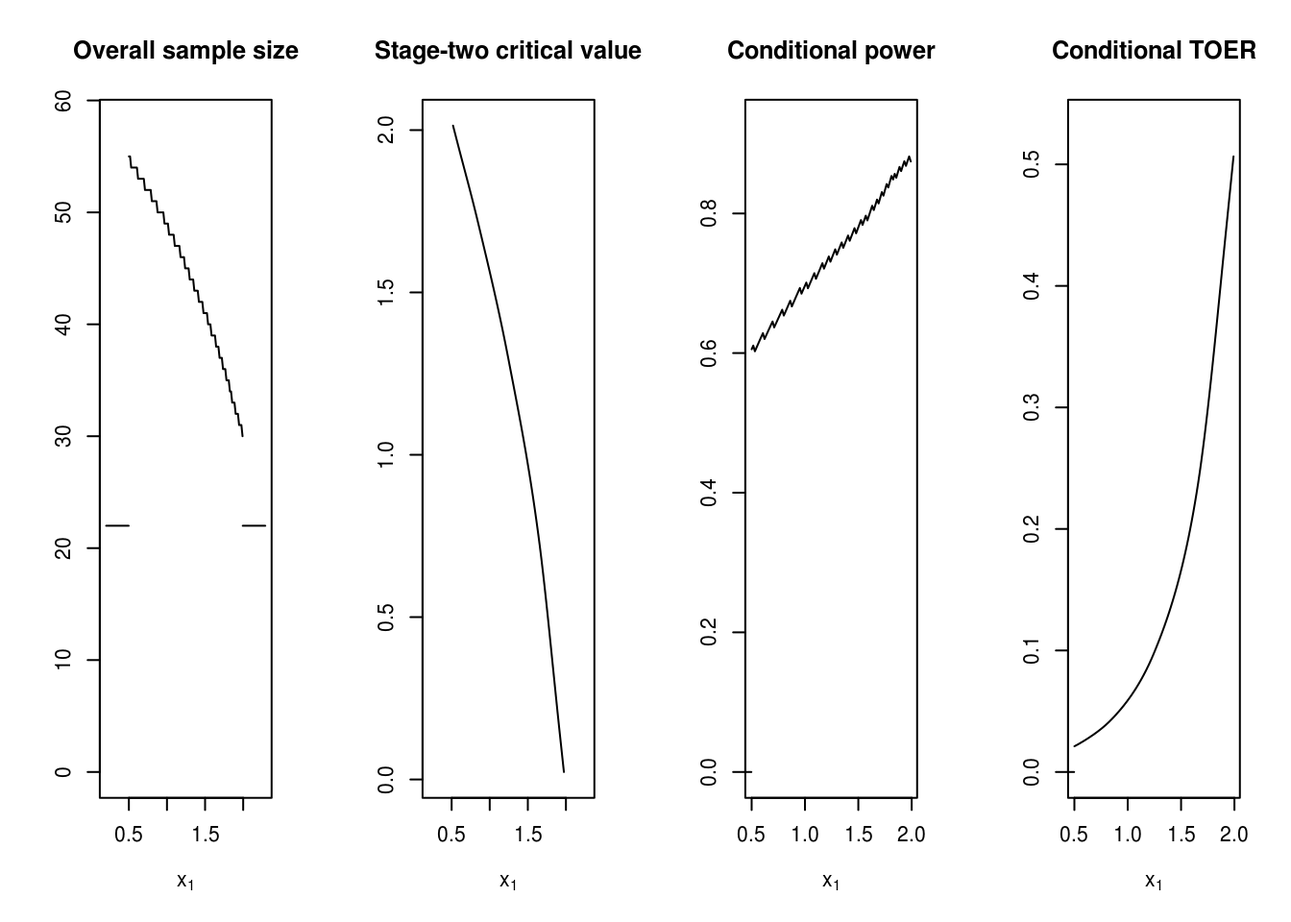
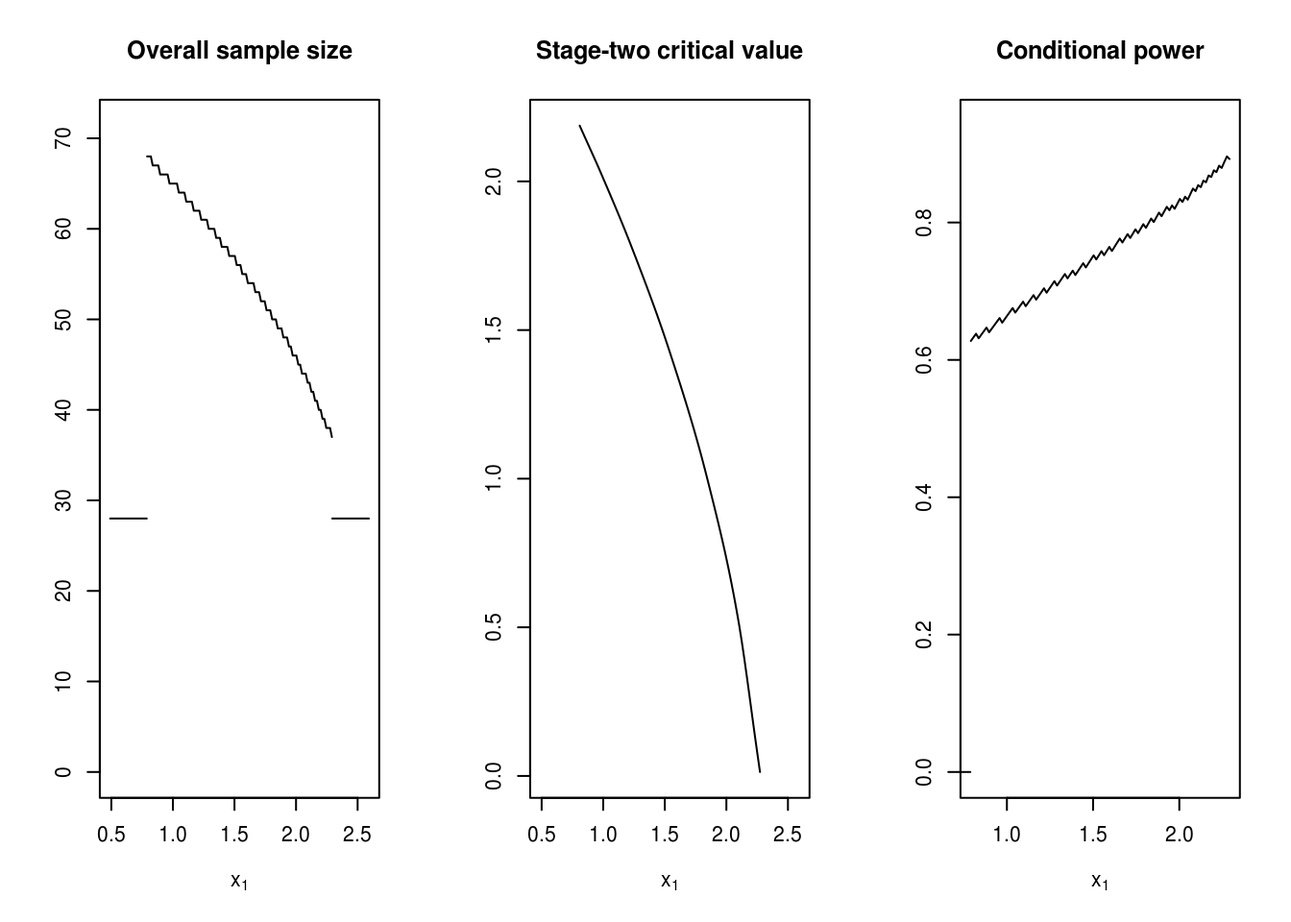
Built site for adoptr: 0.1.0@c99e87e

diff --git a/articles/adoptr.html b/articles/adoptr.html
@@ -5,13 +5,13 @@
 <meta charset="utf-8">
 <meta http-equiv="X-UA-Compatible" content="IE=edge">
 <meta name="viewport" content="width=device-width, initial-scale=1.0">
-<title>Get started with adoptr • adoptr</title>
+<title>Get started with <strong>adoptr</strong> • adoptr</title>
 <!-- jquery --><script src="https://cdnjs.cloudflare.com/ajax/libs/jquery/3.3.1/jquery.min.js" integrity="sha256-FgpCb/KJQlLNfOu91ta32o/NMZxltwRo8QtmkMRdAu8=" crossorigin="anonymous"></script><!-- Bootstrap --><link rel="stylesheet" href="https://cdnjs.cloudflare.com/ajax/libs/twitter-bootstrap/3.3.7/css/bootstrap.min.css" integrity="sha256-916EbMg70RQy9LHiGkXzG8hSg9EdNy97GazNG/aiY1w=" crossorigin="anonymous">
 <script src="https://cdnjs.cloudflare.com/ajax/libs/twitter-bootstrap/3.3.7/js/bootstrap.min.js" integrity="sha256-U5ZEeKfGNOja007MMD3YBI0A3OSZOQbeG6z2f2Y0hu8=" crossorigin="anonymous"></script><!-- Font Awesome icons --><link rel="stylesheet" href="https://cdnjs.cloudflare.com/ajax/libs/font-awesome/4.7.0/css/font-awesome.min.css" integrity="sha256-eZrrJcwDc/3uDhsdt61sL2oOBY362qM3lon1gyExkL0=" crossorigin="anonymous">
 <!-- clipboard.js --><script src="https://cdnjs.cloudflare.com/ajax/libs/clipboard.js/2.0.4/clipboard.min.js" integrity="sha256-FiZwavyI2V6+EXO1U+xzLG3IKldpiTFf3153ea9zikQ=" crossorigin="anonymous"></script><!-- sticky kit --><script src="https://cdnjs.cloudflare.com/ajax/libs/sticky-kit/1.1.3/sticky-kit.min.js" integrity="sha256-c4Rlo1ZozqTPE2RLuvbusY3+SU1pQaJC0TjuhygMipw=" crossorigin="anonymous"></script><!-- pkgdown --><link href="../pkgdown.css" rel="stylesheet">
 <script src="../pkgdown.js"></script><!-- docsearch --><script src="../docsearch.js"></script><link rel="stylesheet" href="https://cdnjs.cloudflare.com/ajax/libs/docsearch.js/2.6.1/docsearch.min.css" integrity="sha256-QOSRU/ra9ActyXkIBbiIB144aDBdtvXBcNc3OTNuX/Q=" crossorigin="anonymous">
 <link href="../docsearch.css" rel="stylesheet">
-<script src="https://cdnjs.cloudflare.com/ajax/libs/mark.js/8.11.1/jquery.mark.min.js" integrity="sha256-4HLtjeVgH0eIB3aZ9mLYF6E8oU5chNdjU6p6rrXpl9U=" crossorigin="anonymous"></script><meta property="og:title" content="Get started with adoptr">
+<script src="https://cdnjs.cloudflare.com/ajax/libs/mark.js/8.11.1/jquery.mark.min.js" integrity="sha256-4HLtjeVgH0eIB3aZ9mLYF6E8oU5chNdjU6p6rrXpl9U=" crossorigin="anonymous"></script><meta property="og:title" content="Get started with &lt;strong&gt;adoptr&lt;/strong&gt;">
 <meta property="og:description" content="">
 <meta property="og:image" content="https://kkmann.github.io/adoptr/logo.png">
 <meta name="twitter:card" content="summary">
@@ -86,7 +86,8 @@
       </header><div class="row">
   <div class="col-md-9 contents">
     <div class="page-header toc-ignore">
-      <h1>Get started with adoptr</h1>
+      <h1>Get started with <strong>adoptr</strong>
+</h1>
             
             <h4 class="date">2019-03-04</h4>
       
@@ -97,88 +98,94 @@
 
     
     
-<div id="the-core-problem" class="section level2">
+<div id="two-stage-designs-for-clinical-trials" class="section level2">
 <h2 class="hasAnchor">
-<a href="#the-core-problem" class="anchor"></a>The core problem</h2>
-<p><code>adoptr</code> addresses the problem of finding optimal two-stage designs for clinical trials. Currently, only (asymptotically) normal test statistics are supported. Both Z-tests for a single arm versus a fixed value or one-sided tests comparing the means of two arms are supported. In all cases known variance is assumed and in the two-arm case homogeneity of variances is required, additionally.</p>
-<p>Consider the simplest case of a two-stage design for a single-arm trial aiming to reject the null hypothesis that <span class="math inline">\(\delta\leq 0\)</span> where <span class="math inline">\(\delta\)</span> is the mean of the population response. Further assume that a power of 80% at <span class="math inline">\(\delta=0.4\)</span> and a type one error rate of 5% on the boundary of the null hypothesis is required (<span class="math inline">\(\delta=0.0\)</span>).</p>
-<p>We can start with a a more or less arbitrary initial design [ToDo: can we start with a single stage design fulfilling the power and type one error rate constraints here?]. <code>adoptr</code> internally represents designs as tuples of <span class="math inline">\((n_1, c_{1f}, c_{1f}, n_2(\cdot), c_2(\cdot))\)</span>. Here, <span class="math inline">\(n_2\)</span> and <span class="math inline">\(c_2\)</span> are the functions returning the stage-two sample size and critical values given the stage-one test statitic <span class="math inline">\(x_1\)</span> (z-score in our case). For any given objective function, the design parameters can be identified via a variational problem. To numerically solve this problem <span class="math inline">\(n_2\)</span> and <span class="math inline">\(c_2\)</span> are integrated using a Gaussian quadrature rule. The order of the rule determines the number of pivot points for both functions. Since, both <span class="math inline">\(n_2\)</span> and <span class="math inline">\(c_2\)</span> are usually fairly smooth on the continuation region, a quadrature rule of order 5 is sufficiently flexible:</p>
-<div class="sourceCode" id="cb1"><pre class="sourceCode r"><code class="sourceCode r"><a class="sourceLine" id="cb1-1" data-line-number="1">order &lt;-<span class="st"> </span>5L</a></code></pre></div>
-<p>The initial design may then be defined as follows:</p>
-<div class="sourceCode" id="cb2"><pre class="sourceCode r"><code class="sourceCode r"><a class="sourceLine" id="cb2-1" data-line-number="1">design &lt;-<span class="st"> </span><span class="kw"><a href="../reference/TwoStageDesign-class.html">TwoStageDesign</a></span>(</a>
-<a class="sourceLine" id="cb2-2" data-line-number="2">    <span class="dt">n1    =</span> <span class="dv">25</span>, </a>
-<a class="sourceLine" id="cb2-3" data-line-number="3">    <span class="dt">c1f   =</span> <span class="dv">0</span>,</a>
-<a class="sourceLine" id="cb2-4" data-line-number="4">    <span class="dt">c1e   =</span> <span class="dv">2</span>,</a>
-<a class="sourceLine" id="cb2-5" data-line-number="5">    <span class="dt">n2    =</span> <span class="fl">40.0</span>, </a>
-<a class="sourceLine" id="cb2-6" data-line-number="6">    <span class="dt">c2    =</span> <span class="fl">1.96</span>,</a>
-<a class="sourceLine" id="cb2-7" data-line-number="7">    <span class="dt">order =</span> order</a>
-<a class="sourceLine" id="cb2-8" data-line-number="8">  )</a></code></pre></div>
-<p>[comment: I don’t like the gq_design function. If we only use GQ, we should implement this as default constructor of the TwoStageDesign class even though the implementation is more generic.] The design can be visualized using the provided <code><a href="https://www.rdocumentation.org/packages/graphics/topics/plot">plot()</a></code> method.</p>
-<div class="sourceCode" id="cb3"><pre class="sourceCode r"><code class="sourceCode r"><a class="sourceLine" id="cb3-1" data-line-number="1"><span class="kw"><a href="https://www.rdocumentation.org/packages/graphics/topics/plot">plot</a></span>(design)</a></code></pre></div>
-<p><img src="adoptr_files/figure-html/plot-design-1.png" width="672"></p>
-<p>In the next step, we define a simple optimization problem for improving this initial design.</p>
+<a href="#two-stage-designs-for-clinical-trials" class="anchor"></a>Two-stage designs for clinical trials</h2>
+<p>In prospectively planned confirmatory clinical trials there has been a long-standing debate about the merits of allowing pre-planned interim analyses to stop or modify an ongoing trial, cf. [REFEENCE BAUER et al 2016]. It is common consensus that such two-stage designs should still maintain strict control of the maximal type one error rate despite the data dependent decision at the interim analyis. Most authors use combination function approaches to combine either the independent p values or test statistics from the respective stages. Doing so with pre-specified weights maintains the type one error rate control [REFERENCE].</p>
+<p>In [our paper], it was argued that such techniques are not necessary, in fact, that they are counter-productive, since the pre-specified weights might be sub-optimal. Intuitively, this can be seen from the fact that the derivation of optimal weights for a two-stage test build on the notion of a hypothetical overall sample size which might never be realized in practice [REFERENCE]. Instead, one may see the problem of defining an optimal two-stage designs as a variational problem to find the optimal configuration <span class="math inline">\(\big(n_1, c_1^e, c_1^f, n_2(\cdot), c_2(\cdot)\big)\)</span> directly for a given objective function and potentially a set of constraints. The relaxation of this mixed-integer problem to the real numbers can then be solved with standard methods from analysis. E.g., one could construct an implicit solution by solving the corresponding Euler-Lagrange equation for given first-stage and then find an optimal first-stage configuration [our paper]. Instead, the <strong>adoptr</strong> package implements a direct numerical solution algorithm by embedding the variation problem via a set of pivot points in the <span class="math inline">\(\mathbb{R}^k\)</span> and solving the corresponding finite-dimensional problem using gradient-free numerical optimization procedures (COBYLA / nloptr).</p>
 </div>
+<div id="example" class="section level1">
+<h1 class="hasAnchor">
+<a href="#example" class="anchor"></a>Example</h1>
+<p>Consider the case of a two-stage design for a single-arm trial aiming to reject the null hypothesis <span class="math inline">\(\mathcal{H}_0: \delta \leq 0\)</span> where <span class="math inline">\(\delta\)</span> is the population-mean response. Further assume that a power of 80% at <span class="math inline">\(\delta=0.4\)</span> and a type-one-error rate of 2.5% on the boundary of the null hypothesis <span class="math inline">\(\delta\leq0.0\)</span> is required.</p>
+<p>In this situation, the one-sided t-test would require a sample size of <span class="math inline">\(51\)</span> individuals. If we were willing to accept the fact that the sample size of a two-stage design is inherently unknown at the planning stage, we could reduce the <em>expected</em> sample size under the alternative by optimizing a two-stage design with respect to this quantity. Since the two-stage design, by definition, has more degrees of freedom than the single-stage design, it must be at least as good in terms of expected sample size as the single-stage design - for which the expected sample size is always 51.</p>
 <div id="define-hypotheses-and-data-generating-mechanism" class="section level2">
 <h2 class="hasAnchor">
 <a href="#define-hypotheses-and-data-generating-mechanism" class="anchor"></a>Define hypotheses and data-generating mechanism</h2>
-<p>First, we define the null and alternative hypotheses as prior distributions over the unknown <span class="math inline">\(\delta\)</span>.</p>
-<div class="sourceCode" id="cb4"><pre class="sourceCode r"><code class="sourceCode r"><a class="sourceLine" id="cb4-1" data-line-number="1">null        &lt;-<span class="st"> </span><span class="kw"><a href="../reference/PointMassPrior-class.html">PointMassPrior</a></span>(.<span class="dv">0</span>, <span class="dv">1</span>)</a>
-<a class="sourceLine" id="cb4-2" data-line-number="2">alternative &lt;-<span class="st"> </span><span class="kw"><a href="../reference/PointMassPrior-class.html">PointMassPrior</a></span>(.<span class="dv">4</span>, <span class="dv">1</span>)</a></code></pre></div>
-<p>Next, we define the data-generating mechanism. Currently, only normally distributed test statistics with known variance are supported. For medium to large sample sizes, the assumption of known variance introduces little error even if the true distribution is, e.g., a t-distribution due to estimation of the unknown variance. Here we simply define a normal-model. The default is a two-arm trial, but for the sake of simplicity, we consider a single-arm trial first.</p>
-<div class="sourceCode" id="cb5"><pre class="sourceCode r"><code class="sourceCode r"><a class="sourceLine" id="cb5-1" data-line-number="1">datadist &lt;-<span class="st"> </span><span class="kw"><a href="../reference/NormalDataDistribution-class.html">Normal</a></span>(<span class="dt">two_armed =</span> <span class="ot">FALSE</span>)</a></code></pre></div>
-<p>Note that when using two-armed designs, all sample sizes are given <em>per-arm</em>!</p>
+<div class="sourceCode" id="cb1"><pre class="sourceCode r"><code class="sourceCode r"><a class="sourceLine" id="cb1-1" data-line-number="1"><span class="kw"><a href="https://www.rdocumentation.org/packages/base/topics/library">library</a></span>(adoptr)</a></code></pre></div>
+<p>First, we define the null and alternative hypotheses as prior distributions over the unknown paramter <span class="math inline">\(\delta\)</span>.</p>
+<div class="sourceCode" id="cb2"><pre class="sourceCode r"><code class="sourceCode r"><a class="sourceLine" id="cb2-1" data-line-number="1">H_<span class="dv">0</span> &lt;-<span class="st"> </span><span class="kw"><a href="../reference/PointMassPrior-class.html">PointMassPrior</a></span>(.<span class="dv">0</span>, <span class="dv">1</span>)</a>
+<a class="sourceLine" id="cb2-2" data-line-number="2">H_<span class="dv">1</span> &lt;-<span class="st"> </span><span class="kw"><a href="../reference/PointMassPrior-class.html">PointMassPrior</a></span>(.<span class="dv">4</span>, <span class="dv">1</span>)</a></code></pre></div>
+<p>Next, we define the data-generating mechanism (data distribution). Currently, only normally distributed test statistics with known variance are supported.</p>
+<div class="sourceCode" id="cb3"><pre class="sourceCode r"><code class="sourceCode r"><a class="sourceLine" id="cb3-1" data-line-number="1">datadist &lt;-<span class="st"> </span><span class="kw"><a href="../reference/NormalDataDistribution-class.html">Normal</a></span>(<span class="dt">two_armed =</span> <span class="ot">FALSE</span>)</a></code></pre></div>
 </div>
-<div id="define-scores" class="section level2">
+<div id="specify-optimization-problem" class="section level2">
 <h2 class="hasAnchor">
-<a href="#define-scores" class="anchor"></a>Define scores</h2>
-<p>To define the optimization problem we specify a few quantities of interest. The overall objective could, e.g., be to minimize the expected sample size of the design under the alternative hypothesis subject to the given power and type one error rate constraints. Let to this end</p>
-<div class="sourceCode" id="cb6"><pre class="sourceCode r"><code class="sourceCode r"><a class="sourceLine" id="cb6-1" data-line-number="1">ess  &lt;-<span class="st"> </span><span class="kw"><a href="../reference/working-with-scores.html">expected</a></span>(<span class="kw"><a href="../reference/ConditionalSampleSize-class.html">ConditionalSampleSize</a></span>(datadist, alternative))</a></code></pre></div>
-<p>be the expected sample size under the alternative. Note that the <code>ess</code> object is created by integrating a simple, conditional score - the conditional sample size given <span class="math inline">\(X_1 = x_1\)</span> is just <span class="math inline">\(n_1 + n_2(x_1)\)</span> and pre-implemented.</p>
-<p>Similarly, we can define the power and type one error rate by integrating conditional power with respect to the alternative or null hypothesis respectively:</p>
-<div class="sourceCode" id="cb7"><pre class="sourceCode r"><code class="sourceCode r"><a class="sourceLine" id="cb7-1" data-line-number="1">power  &lt;-<span class="st"> </span><span class="kw"><a href="../reference/working-with-scores.html">expected</a></span>(<span class="kw"><a href="../reference/ConditionalPower-class.html">ConditionalPower</a></span>(datadist, alternative))</a>
-<a class="sourceLine" id="cb7-2" data-line-number="2">toer   &lt;-<span class="st"> </span><span class="kw"><a href="../reference/working-with-scores.html">expected</a></span>(<span class="kw"><a href="../reference/ConditionalPower-class.html">ConditionalPower</a></span>(datadist, null))</a></code></pre></div>
-</div>
-<div id="optimize-the-design" class="section level2">
-<h2 class="hasAnchor">
-<a href="#optimize-the-design" class="anchor"></a>Optimize the design</h2>
-<p>We can now proceed with defining and solving the optimization problem. Before doing so, we need to define box-constraints by providing a lower and upper boundary design.</p>
-<div class="sourceCode" id="cb8"><pre class="sourceCode r"><code class="sourceCode r"><a class="sourceLine" id="cb8-1" data-line-number="1">lb_design &lt;-<span class="st"> </span><span class="kw"><a href="https://www.rdocumentation.org/packages/stats/topics/update">update</a></span>(</a>
-<a class="sourceLine" id="cb8-2" data-line-number="2">    design, <span class="kw"><a href="https://www.rdocumentation.org/packages/base/topics/c">c</a></span>(<span class="dv">10</span>, <span class="dv">-1</span>, <span class="dv">1</span>, <span class="kw"><a href="https://www.rdocumentation.org/packages/base/topics/numeric">numeric</a></span>(order) <span class="op">+</span><span class="st"> </span><span class="dv">2</span>, <span class="kw"><a href="https://www.rdocumentation.org/packages/base/topics/numeric">numeric</a></span>(order) <span class="op">-</span><span class="st"> </span><span class="dv">5</span>)</a>
-<a class="sourceLine" id="cb8-3" data-line-number="3">)</a>
-<a class="sourceLine" id="cb8-4" data-line-number="4">ub_design &lt;-<span class="st"> </span><span class="kw"><a href="https://www.rdocumentation.org/packages/stats/topics/update">update</a></span>(</a>
-<a class="sourceLine" id="cb8-5" data-line-number="5">  design, <span class="kw"><a href="https://www.rdocumentation.org/packages/base/topics/c">c</a></span>(<span class="dv">50</span>, <span class="dv">1</span>, <span class="dv">4</span>, <span class="kw"><a href="https://www.rdocumentation.org/packages/base/topics/numeric">numeric</a></span>(order) <span class="op">+</span><span class="st"> </span><span class="dv">50</span>, <span class="kw"><a href="https://www.rdocumentation.org/packages/base/topics/numeric">numeric</a></span>(order) <span class="op">+</span><span class="st"> </span><span class="dv">5</span>)</a>
-<a class="sourceLine" id="cb8-6" data-line-number="6">)</a></code></pre></div>
-<div class="sourceCode" id="cb9"><pre class="sourceCode r"><code class="sourceCode r"><a class="sourceLine" id="cb9-1" data-line-number="1">optimal_result &lt;-<span class="st"> </span><span class="kw"><a href="../reference/minimize.html">minimize</a></span>(</a>
+<a href="#specify-optimization-problem" class="anchor"></a>Specify optimization problem</h2>
+<p>We begin by defining the expected sample size under the alternative hypothesis:</p>
+<div class="sourceCode" id="cb4"><pre class="sourceCode r"><code class="sourceCode r"><a class="sourceLine" id="cb4-1" data-line-number="1">ess &lt;-<span class="st"> </span><span class="kw"><a href="../reference/working-with-scores.html">expected</a></span>(<span class="kw"><a href="../reference/ConditionalSampleSize-class.html">ConditionalSampleSize</a></span>(datadist, H_<span class="dv">1</span>))</a></code></pre></div>
+<p>Similarly, we can define the power and the type-one-error rate by integrating conditional power with respect to the alternative or null hypothesis respectively:</p>
+<div class="sourceCode" id="cb5"><pre class="sourceCode r"><code class="sourceCode r"><a class="sourceLine" id="cb5-1" data-line-number="1">power  &lt;-<span class="st"> </span><span class="kw"><a href="../reference/working-with-scores.html">expected</a></span>(<span class="kw"><a href="../reference/ConditionalPower-class.html">ConditionalPower</a></span>(datadist, H_<span class="dv">1</span>))</a>
+<a class="sourceLine" id="cb5-2" data-line-number="2">toer   &lt;-<span class="st"> </span><span class="kw"><a href="../reference/working-with-scores.html">expected</a></span>(<span class="kw"><a href="../reference/ConditionalPower-class.html">ConditionalPower</a></span>(datadist, H_<span class="dv">0</span>))</a></code></pre></div>
+<p>To complete the problem specification, we only need to provide an initial design and an integration order for the Gaussian quadrature rule to be used for the numerical integration of the variational objective between <span class="math inline">\(c_1^f\)</span> and <span class="math inline">\(c_1^e\)</span>. For the initial design, we simply set the stage-one sample size to half the sample size of the t-test and we use a rule of order 7:</p>
+<div class="sourceCode" id="cb6"><pre class="sourceCode r"><code class="sourceCode r"><a class="sourceLine" id="cb6-1" data-line-number="1">initial_design &lt;-<span class="st"> </span><span class="kw"><a href="../reference/TwoStageDesign-class.html">TwoStageDesign</a></span>(</a>
+<a class="sourceLine" id="cb6-2" data-line-number="2">    <span class="dt">n1    =</span> <span class="dv">25</span>, </a>
+<a class="sourceLine" id="cb6-3" data-line-number="3">    <span class="dt">c1f   =</span> <span class="dv">0</span>,</a>
+<a class="sourceLine" id="cb6-4" data-line-number="4">    <span class="dt">c1e   =</span> <span class="fl">2.5</span>,</a>
+<a class="sourceLine" id="cb6-5" data-line-number="5">    <span class="dt">n2    =</span> <span class="dv">50</span>, </a>
+<a class="sourceLine" id="cb6-6" data-line-number="6">    <span class="dt">c2    =</span> <span class="fl">1.96</span>,</a>
+<a class="sourceLine" id="cb6-7" data-line-number="7">    <span class="dt">order =</span> 7L</a>
+<a class="sourceLine" id="cb6-8" data-line-number="8">)</a></code></pre></div>
+<p>The decision boundaries are heuristically picked in concordance with those of the single-stage design. We can then check whether the initial design fulfills the constraints on the operating characteristics:</p>
+<div class="sourceCode" id="cb7"><pre class="sourceCode r"><code class="sourceCode r"><a class="sourceLine" id="cb7-1" data-line-number="1"><span class="kw"><a href="../reference/working-with-scores.html">evaluate</a></span>(power, initial_design)</a>
+<a class="sourceLine" id="cb7-2" data-line-number="2"><span class="co">#&gt; [1] 0.8484691</span></a></code></pre></div>
+<div class="sourceCode" id="cb8"><pre class="sourceCode r"><code class="sourceCode r"><a class="sourceLine" id="cb8-1" data-line-number="1"><span class="kw"><a href="../reference/working-with-scores.html">evaluate</a></span>(toer, initial_design)</a>
+<a class="sourceLine" id="cb8-2" data-line-number="2"><span class="co">#&gt; [1] 0.01855338</span></a></code></pre></div>
+<p>We can now proceed with defining and solving the optimization problem:</p>
+<div class="sourceCode" id="cb9"><pre class="sourceCode r"><code class="sourceCode r"><a class="sourceLine" id="cb9-1" data-line-number="1">opt_res &lt;-<span class="st"> </span><span class="kw"><a href="../reference/minimize.html">minimize</a></span>(</a>
 <a class="sourceLine" id="cb9-2" data-line-number="2">  </a>
 <a class="sourceLine" id="cb9-3" data-line-number="3">  ess,</a>
-<a class="sourceLine" id="cb9-4" data-line-number="4">  <span class="kw"><a href="../reference/ConstraintsCollection-class.html">subject_to</a></span>(</a>
-<a class="sourceLine" id="cb9-5" data-line-number="5">    power <span class="op">&gt;=</span><span class="st"> </span><span class="fl">0.8</span>,</a>
-<a class="sourceLine" id="cb9-6" data-line-number="6">    toer  <span class="op">&lt;=</span><span class="st"> </span><span class="fl">.05</span></a>
-<a class="sourceLine" id="cb9-7" data-line-number="7">  ),</a>
-<a class="sourceLine" id="cb9-8" data-line-number="8">  </a>
-<a class="sourceLine" id="cb9-9" data-line-number="9">  <span class="dt">initial_design        =</span> design,</a>
-<a class="sourceLine" id="cb9-10" data-line-number="10">  <span class="dt">lower_boundary_design =</span> lb_design,</a>
-<a class="sourceLine" id="cb9-11" data-line-number="11">  <span class="dt">upper_boundary_design =</span> ub_design</a>
-<a class="sourceLine" id="cb9-12" data-line-number="12">  </a>
-<a class="sourceLine" id="cb9-13" data-line-number="13">)</a>
-<a class="sourceLine" id="cb9-14" data-line-number="14"></a>
-<a class="sourceLine" id="cb9-15" data-line-number="15">optimal_design &lt;-<span class="st"> </span>optimal_result<span class="op">$</span>design</a></code></pre></div>
-<p>Here, we override the internal defaults to allow a more precise solution. Note that since COBYLA is a generic derivative-free optimizer, the process may take quite a while. In general it is important to check convergence since partial solutions might be non-smooth or otherwise non-intuitive. If the algorithm would not have converged, the function <code>minimize</code> would have thrown a warning message. All the output that was created by <code>nloptr</code> can be regarded by</p>
-<div class="sourceCode" id="cb10"><pre class="sourceCode r"><code class="sourceCode r"><a class="sourceLine" id="cb10-1" data-line-number="1">optimal_result<span class="op">$</span>details<span class="op">$</span>nloptr_return</a></code></pre></div>
-<p>The resulting optimized design may again be plotted together with its conditional power.</p>
+<a class="sourceLine" id="cb9-4" data-line-number="4">  </a>
+<a class="sourceLine" id="cb9-5" data-line-number="5">  <span class="kw"><a href="../reference/ConstraintsCollection-class.html">subject_to</a></span>(</a>
+<a class="sourceLine" id="cb9-6" data-line-number="6">    power <span class="op">&gt;=</span><span class="st"> </span><span class="fl">0.8</span>,</a>
+<a class="sourceLine" id="cb9-7" data-line-number="7">    toer  <span class="op">&lt;=</span><span class="st"> </span><span class="fl">.025</span></a>
+<a class="sourceLine" id="cb9-8" data-line-number="8">  ),</a>
+<a class="sourceLine" id="cb9-9" data-line-number="9">  </a>
+<a class="sourceLine" id="cb9-10" data-line-number="10">  initial_design</a>
+<a class="sourceLine" id="cb9-11" data-line-number="11">)</a></code></pre></div>
+<p>Here, the default setting for the optimizer and box constraints seem to have worked out. The numerical procedure converged after</p>
+<div class="sourceCode" id="cb10"><pre class="sourceCode r"><code class="sourceCode r"><a class="sourceLine" id="cb10-1" data-line-number="1">opt_res<span class="op">$</span>nloptr_return<span class="op">$</span>iterations</a></code></pre></div>
+<p>iterations.</p>
+<p>We can plot the resulting optimized design may again be plotted together with its conditional power.</p>
 <div class="sourceCode" id="cb11"><pre class="sourceCode r"><code class="sourceCode r"><a class="sourceLine" id="cb11-1" data-line-number="1"><span class="kw"><a href="https://www.rdocumentation.org/packages/graphics/topics/plot">plot</a></span>(</a>
-<a class="sourceLine" id="cb11-2" data-line-number="2">  optimal_design, </a>
-<a class="sourceLine" id="cb11-3" data-line-number="3">  <span class="st">"Conditional power"</span> =<span class="st"> </span><span class="kw"><a href="../reference/ConditionalPower-class.html">ConditionalPower</a></span>(datadist, alternative),</a>
-<a class="sourceLine" id="cb11-4" data-line-number="4">  <span class="st">"Conditional TOER"</span>  =<span class="st"> </span><span class="kw"><a href="../reference/ConditionalPower-class.html">ConditionalPower</a></span>(datadist, null)</a>
-<a class="sourceLine" id="cb11-5" data-line-number="5">)</a></code></pre></div>
+<a class="sourceLine" id="cb11-2" data-line-number="2">  opt_res<span class="op">$</span>design, </a>
+<a class="sourceLine" id="cb11-3" data-line-number="3">  <span class="st">"Conditional power"</span> =<span class="st"> </span><span class="kw"><a href="../reference/ConditionalPower-class.html">ConditionalPower</a></span>(datadist, H_<span class="dv">1</span>)</a>
+<a class="sourceLine" id="cb11-4" data-line-number="4">)</a></code></pre></div>
 <p><img src="adoptr_files/figure-html/plot-optimal-design-1.png" width="672"></p>
-<p>This class of designs was previously discussed in [SIM article] where an indirect method solving the Euler-Lagrange equation was used to find the optimal <span class="math inline">\(n_2\)</span> and <span class="math inline">\(c_2\)</span> functions.</p>
+<p>Numerical integration yields an expected sample size of</p>
+<div class="sourceCode" id="cb12"><pre class="sourceCode r"><code class="sourceCode r"><a class="sourceLine" id="cb12-1" data-line-number="1"><span class="kw"><a href="../reference/working-with-scores.html">evaluate</a></span>(ess, opt_res<span class="op">$</span>design)</a>
+<a class="sourceLine" id="cb12-2" data-line-number="2"><span class="co">#&gt; [1] 39.80969</span></a></code></pre></div>
+<p>which is way below the single-stage 51. We can check this results against simulated values</p>
+<div class="sourceCode" id="cb13"><pre class="sourceCode r"><code class="sourceCode r"><a class="sourceLine" id="cb13-1" data-line-number="1">df_sim &lt;-<span class="st"> </span><span class="kw"><a href="https://www.rdocumentation.org/packages/stats/topics/simulate">simulate</a></span>(opt_res<span class="op">$</span>design, <span class="dt">nsim =</span> <span class="dv">10</span><span class="op">^</span><span class="dv">6</span>, <span class="dt">dist =</span> datadist, <span class="dt">theta =</span> <span class="fl">.4</span>, <span class="dt">seed =</span> <span class="dv">42</span>)</a>
+<a class="sourceLine" id="cb13-2" data-line-number="2"></a>
+<a class="sourceLine" id="cb13-3" data-line-number="3">n &lt;-<span class="st"> </span>df_sim<span class="op">$</span>n1 <span class="op">+</span><span class="st"> </span>df_sim<span class="op">$</span>n2</a>
+<a class="sourceLine" id="cb13-4" data-line-number="4"><span class="kw"><a href="https://www.rdocumentation.org/packages/base/topics/mean">mean</a></span>(n)</a>
+<a class="sourceLine" id="cb13-5" data-line-number="5"><span class="co">#&gt; [1] 39.8399</span></a>
+<a class="sourceLine" id="cb13-6" data-line-number="6"><span class="kw"><a href="https://www.rdocumentation.org/packages/stats/topics/sd">sd</a></span>(n) <span class="op">/</span><span class="st"> </span><span class="kw"><a href="https://www.rdocumentation.org/packages/base/topics/MathFun">sqrt</a></span>(<span class="kw"><a href="https://www.rdocumentation.org/packages/base/topics/length">length</a></span>(n))</a>
+<a class="sourceLine" id="cb13-7" data-line-number="7"><span class="co">#&gt; [1] 0.01372656</span></a></code></pre></div>
+<p>Obviously, the values from simulation and numerical integration are almost identical.</p>
+<p>The constraints are also met almost perfectly:</p>
+<div class="sourceCode" id="cb14"><pre class="sourceCode r"><code class="sourceCode r"><a class="sourceLine" id="cb14-1" data-line-number="1"><span class="kw"><a href="../reference/working-with-scores.html">evaluate</a></span>(toer, opt_res<span class="op">$</span>design)</a>
+<a class="sourceLine" id="cb14-2" data-line-number="2"><span class="co">#&gt; [1] 0.02500571</span></a>
+<a class="sourceLine" id="cb14-3" data-line-number="3"><span class="kw"><a href="../reference/working-with-scores.html">evaluate</a></span>(power, opt_res<span class="op">$</span>design)</a>
+<a class="sourceLine" id="cb14-4" data-line-number="4"><span class="co">#&gt; [1] 0.7999964</span></a></code></pre></div>
 </div>
 <div id="variations" class="section level2">
 <h2 class="hasAnchor">
 <a href="#variations" class="anchor"></a>Variations</h2>
 <p>The purpose of <code>adoptr</code> is to provide a high-level interface for exploring and comparing different designs and to experiment with different combinations of objective functions and constraints.</p>
 <p>[…]</p>
+</div>
 </div>
   </div>
 
@@ -187,11 +194,14 @@
       <h2 class="hasAnchor">
 <a href="#tocnav" class="anchor"></a>Contents</h2>
       <ul class="nav nav-pills nav-stacked">
-<li><a href="#the-core-problem">The core problem</a></li>
-      <li><a href="#define-hypotheses-and-data-generating-mechanism">Define hypotheses and data-generating mechanism</a></li>
-      <li><a href="#define-scores">Define scores</a></li>
-      <li><a href="#optimize-the-design">Optimize the design</a></li>
+<li><a href="#two-stage-designs-for-clinical-trials">Two-stage designs for clinical trials</a></li>
+      <li>
+<a href="#example">Example</a><ul class="nav nav-pills nav-stacked">
+<li><a href="#define-hypotheses-and-data-generating-mechanism">Define hypotheses and data-generating mechanism</a></li>
+      <li><a href="#specify-optimization-problem">Specify optimization problem</a></li>
       <li><a href="#variations">Variations</a></li>
+      </ul>
+</li>
       </ul>
 </div>
       </div>

diff --git a/articles/index.html b/articles/index.html
@@ -131,7 +131,7 @@
       <p class="section-desc"></p>
 
       <ul>
-        <li><a href="adoptr.html">Get started with adoptr</a></li>
+        <li><a href="adoptr.html">Get started with **adoptr**</a></li>
         <li><a href="defining-new-scores.html">Defining new scores</a></li>
         <li><a href="score-and-constraints-arithmetic.html">Score and constraints arithmetic</a></li>
         <li><a href="working-with-priors.html">Working with priors</a></li>
